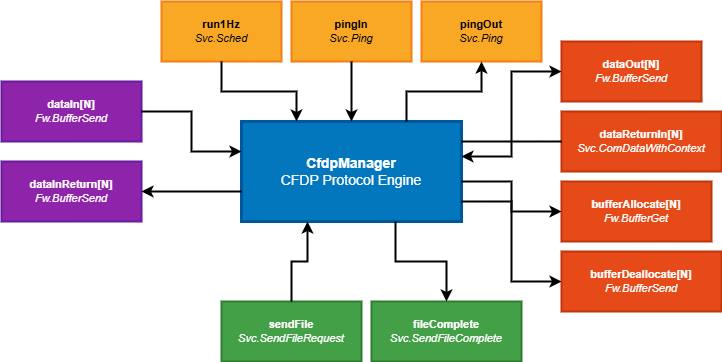
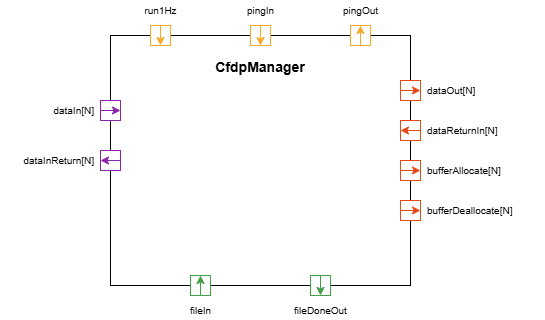
Added CfdpManager usage diagram and updated port naming to be consistent

diff --git a/Svc/Ccsds/CfdpManager/test/ut/CfdpManagerTester.cpp b/Svc/Ccsds/CfdpManager/test/ut/CfdpManagerTester.cpp
@@ -75,12 +75,12 @@ void CfdpManagerTester::from_dataOut_handler(
     }
 }
 
-void CfdpManagerTester::from_fileComplete_handler(
+void CfdpManagerTester::from_fileDoneOut_handler(
     FwIndexType portNum,
     const Svc::SendFileResponse& response
 ) {
     // Push to port history
-    CfdpManagerGTestBase::from_fileComplete_handler(portNum, response);
+    CfdpManagerGTestBase::from_fileDoneOut_handler(portNum, response);
 }
 
 // ----------------------------------------------------------------------
@@ -430,7 +430,7 @@ Svc::SendFileResponse CfdpManagerTester::invokeSendFilePort(
 ) {
     Fw::String source(srcFile);
     Fw::String dest(dstFile);
-    Svc::SendFileResponse response = this->invoke_to_sendFile(
+    Svc::SendFileResponse response = this->invoke_to_fileIn(
         0,                    // portNum
         source,              // sourceFileName
         dest,                // destFileName
@@ -862,14 +862,14 @@ void CfdpManagerTester::sendAndVerifyClass2Tx(
     // Complete Class 2 handshake
     completeClass2Handshake(channelId, TEST_GROUND_EID, setup.expectedSeqNum, setup.txn);
 
-    // If port-initiated, verify fileComplete callback BEFORE clearing history
+    // If port-initiated, verify fileDoneOut callback BEFORE clearing history
     if (initType == INIT_BY_PORT) {
-        ASSERT_EQ(1u, this->fromPortHistory_fileComplete->size())
-            << "fileComplete port should be invoked once for port-initiated transfer";
+        ASSERT_EQ(1u, this->fromPortHistory_fileDoneOut->size())
+            << "fileDoneOut port should be invoked once for port-initiated transfer";
         Svc::SendFileResponse completionResp =
-            this->fromPortHistory_fileComplete->at(0).resp;
+            this->fromPortHistory_fileDoneOut->at(0).resp;
         ASSERT_EQ(Svc::SendFileStatus::STATUS_OK, completionResp.get_status())
-            << "fileComplete should indicate success";
+            << "fileDoneOut should indicate success";
     }
 
     // Wait for transaction recycle

diff --git a/Svc/Ccsds/CfdpManager/CfdpManager.hpp b/Svc/Ccsds/CfdpManager/CfdpManager.hpp
@@ -83,7 +83,7 @@ class CfdpManager final : public CfdpManagerComponentBase {
 
   //! Send file completion notification for port-initiated transfers
   //!
-  //! Invokes the fileComplete output port with the transaction status.
+  //! Invokes the fileDoneOut output port with the transaction status.
   //!
   //! \param status Transaction completion status
   void sendFileComplete(Svc::SendFileStatus::T status);
@@ -112,8 +112,8 @@ class CfdpManager final : public CfdpManagerComponentBase {
                         Fw::Buffer& fwBuffer //!< The buffer
     ) override;
 
-    //! Handler for input port SendFile
-    Svc::SendFileResponse sendFile_handler(
+    //! Handler for input port fileIn
+    Svc::SendFileResponse fileIn_handler(
         FwIndexType portNum, //!< The port number
         const Fw::StringBase& sourceFileName, //!< Path of file to send
         const Fw::StringBase& destFileName, //!< Path to store file at destination

diff --git a/Svc/Ccsds/CfdpManager/CfdpManager.cpp b/Svc/Ccsds/CfdpManager/CfdpManager.cpp
@@ -73,7 +73,7 @@ void CfdpManager ::dataIn_handler(FwIndexType portNum, Fw::Buffer& fwBuffer)
     this->dataInReturn_out(portNum, fwBuffer);
 }
 
-Svc::SendFileResponse CfdpManager ::sendFile_handler(
+Svc::SendFileResponse CfdpManager ::fileIn_handler(
     FwIndexType portNum,
     const Fw::StringBase& sourceFileName,
     const Fw::StringBase& destFileName,
@@ -204,7 +204,7 @@ void CfdpManager::sendFileComplete(Svc::SendFileStatus::T status)
     response.set_status(status);
     response.set_context(0);
 
-    this->fileComplete_out(0, response);
+    this->fileDoneOut_out(0, response);
 }
 
 // ----------------------------------------------------------------------

diff --git a/Svc/Ccsds/CfdpManager/test/ut/CfdpManagerTester.hpp b/Svc/Ccsds/CfdpManager/test/ut/CfdpManagerTester.hpp
@@ -408,8 +408,8 @@ class CfdpManagerTester final : public CfdpManagerGTestBase {
         Fw::Buffer& fwBuffer
     ) override;
 
-    //! Handler for from_fileComplete - just push port history for testing
-    void from_fileComplete_handler(
+    //! Handler for from_fileDoneOut - just push port history for testing
+    void from_fileDoneOut_handler(
         FwIndexType portNum,
         const Svc::SendFileResponse& response
     ) override;

diff --git a/Svc/Ccsds/CfdpManager/docs/sdd.md b/Svc/Ccsds/CfdpManager/docs/sdd.md
@@ -42,7 +42,7 @@ Ports are organized as follows:
 - **Top (System Ports)**: Scheduling and system health - `run1Hz`, `pingIn`, `pingOut`
 - **Left (Uplink Ports)**: Receive CFDP PDUs from remote entities - `dataIn`, `dataInReturn`
 - **Right (Downlink Ports)**: Send CFDP PDUs to remote entities - `dataOut`, `dataReturnIn`, `bufferAllocate`, `bufferDeallocate`
-- **Bottom (File Transfer Ports)**: Programmatic file send interface - `sendFile`, `fileComplete`
+- **Bottom (File Transfer Ports)**: Port-based file send interface - `fileIn`, `fileDoneOut`
 
 ### Port Descriptions
 
@@ -74,14 +74,50 @@ Ports are organized as follows:
 
 | Name | Type | Port Type | Description |
 |------|------|-----------|-------------|
-| sendFile | guarded input | `Svc.SendFileRequest` | Programmatic file send request interface. Allows other components to initiate CFDP file transfers without using commands. Transaction arguments are populated as follows: (1) `channelId` and `destEid` are read from component parameters `PORT_DEFAULT_CHANNEL` and `PORT_DEFAULT_DEST_ENTITY_ID`, (2) `cfdpClass` is hardcoded to `CLASS_2` , (3) `keep` is hardcoded to `KEEP`, (4) `priority` is hardcoded to `0` (highest priority). The `offset` and `length` parameters are currently unsupported and must be `0`, or `STATUS_INVALID` is returned|
-| fileComplete | output | `Svc.SendFileComplete` | Asynchronous notification of file transfer completion for transfers initiated via `sendFile` port. Provides final transfer status. Only invoked for port-initiated transactions (not command-initiated). |
+| fileIn | guarded input | `Svc.SendFileRequest` | Programmatic file send request interface. Allows other components to initiate CFDP file transfers without using commands. Transaction arguments are populated as follows: (1) `channelId` and `destEid` are read from component parameters `PORT_DEFAULT_CHANNEL` and `PORT_DEFAULT_DEST_ENTITY_ID`, (2) `cfdpClass` is hardcoded to `CLASS_2` , (3) `keep` is hardcoded to `KEEP`, (4) `priority` is hardcoded to `0` (highest priority). The `offset` and `length` parameters are currently unsupported and must be `0`, or `STATUS_INVALID` is returned|
+| fileDoneOut | output | `Svc.SendFileComplete` | Asynchronous notification of file transfer completion for transfers initiated via `fileIn` port. Provides final transfer status. Only invoked for port-initiated transactions (not command-initiated). |
 
 ## Usage Examples
-Add usage examples here
 
-### Diagrams
-Add diagrams here
+```mermaid
+%%{init: {
+  "theme": "base",
+  "themeVariables": {
+    "background": "#0b1d26",
+    "primaryColor": "#5b8f9e",
+    "primaryTextColor": "#ffffff",
+    "primaryBorderColor": "#5b8f9e",
+    "lineColor": "#cfd8dc",
+    "fontSize": "14px"
+  }
+}}%%
+
+flowchart LR
+  subgraph FprimeRouter
+    FprimeRouter_fileOut["fileOut<br/>0"]
+  end
+
+  subgraph CfdpManager
+    CfdpManager_dataIn["dataIn<br/>0"]
+    CfdpManager_dataOut["dataOut<br/>0"]
+    CfdpManager_sendFile["sendFile<br/>0"]
+    CfdpManager_fileDoneOut["fileDoneOut<br/>0"]
+  end
+
+  subgraph ComQueue
+    ComQueue_bufferQueueIn["bufferQueueIn<br/>0"]
+  end
+
+  subgraph DpCatalog
+    DpCatalog_fileOut["fileOut<br/>0"]
+    DpCatalog_fileDone["fileDone<br/>1"]
+  end
+
+  FprimeRouter_fileOut --> CfdpManager_dataIn
+  CfdpManager_dataOut --> ComQueue_bufferQueueIn
+  DpCatalog_fileOut --> CfdpManager_sendFile
+  CfdpManager_fileDoneOut --> DpCatalog_fileDone
+```
 
 ### Typical Usage
 And the typical usage of the component here
